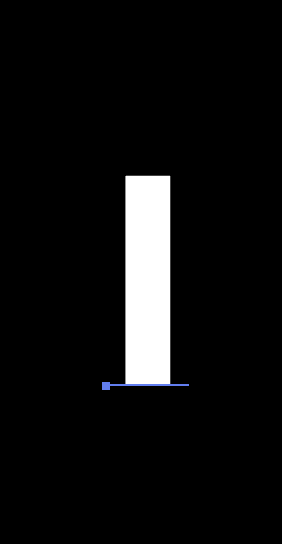
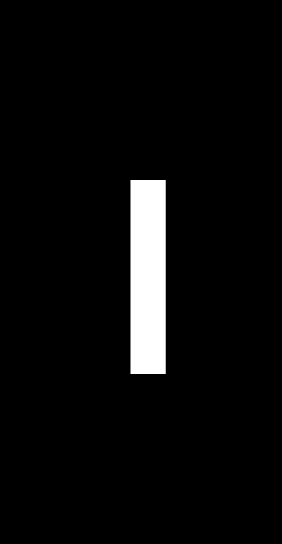
finally it works

Changed region(s): [[0.3404, 0.3125, 0.6525, 0.7188]]

diff --git a/Stereograms.m b/Stereograms.m
@@ -1,89 +1,51 @@
 im = imread("squirrel.jpeg");
 pattern = imread("pattern2.jpeg");
 im2 = imread("face.jpeg");
-letterPics = {'A.jpeg', 'B.jpeg', 'C.jpeg', 'D.jpeg', 'E.jpeg', 'F.jpeg'...
-    'G.jpeg', 'H.jpeg', 'I.jpeg', 'J.jpeg', 'K.jpeg', 'L.jpeg', 'M.jpeg'...
-    'N.jpeg', 'O.jpeg', 'P.jpeg', 'Q.jpeg', 'R.jpeg', 'S.jpeg', 'T.jpeg'...
-    'U.jpeg', 'V.jpeg', 'X.jpeg', 'Y.jpeg', 'Z.jpeg'};
 
-word = {'J', 'A', 'D', 'E', 'N'};
-s = 5;
-temp = letterPics{1}
-wordPattern = imread("wordPattern.jpeg");
-figure(1); imshow(wordPattern);
-wordDepthMap = makeWordDepthMap(letterPics,word,s);
-figure(2); imshow(wordDepthMap);
+word = {'B', 'R', 'U', 'H'};
+s=4;
+%-------------------------------------
+wordPattern = im2double(imread("wordPattern.jpeg"));
+wordDepthMap = makeWordDepthMap(word,s);
+%figure(2); imshow(wordDepthMap);
 wordFullPattern = patternCast(wordDepthMap,wordPattern);
-wordGram = stereogram(wordDepthMap,wordFullPattern,10);
-animate(wordFullPattern,wordGram,"wordGif.gif");
+wordGram = stereogram(wordDepthMap,wordFullPattern,15,2);
+figure(1); imshow(wordGram);
+animate(imgaussfilt(wordFullPattern,2),wordGram,"wordGif.gif");
 
 
-%figure; imshow(im2);
-%newPattern = compress(im, im2, 10);
+%--------------------------------------
+newPattern = compress(im, im2, 10);
 
 %figure(1); imshow(newPattern)
-%fullPattern = patternCast(im, newPattern);
+fullPattern = patternCast(im, newPattern);
 
 %figure(1); imshow(fullPattern)
-%gram = stereogram(im,fullPattern,15);
+gram = stereogram(im,fullPattern,15,5);
 
-%figure(2); imshow(gram)
-%animate(fullPattern,gram);
+figure(2); imshow(gram)
+animate(imgaussfilt(fullPattern,5),gram,"picturePattern.gif");
 
-
-
-
-
-function depthMap = makeWordDepthMap(letterPics, word,s) 
+function depthMap = makeWordDepthMap(word,s) 
     alphabet = {'A', 'B', 'C', 'D', 'E', 'F', 'G', 'H', 'I', 'J', 'K', 'L', 'M', 'N', 'O', 'P', 'Q', 'R', 'S', 'T', 'U', 'V', 'W', 'X', 'Y', 'Z'};
     indexArray = contains(alphabet,word{1});
-    letterFilename = letterPics(indexArray)
-    name = letterFilename{1}
-    depthMap = imread(name);
-    for i = 1:s-1
-        letter = word{i};
-        indexArray2 = contains(alphabet,letter);
-        letterIm = imread(letterPics(indexArray2));
+    ind = find(indexArray==1); %#ok<NASGU> 
+    letterFilename = [word{1} '.jpeg'];
+    %disp(class(letterFilename));
+    depthMap = imread(letterFilename);
+    for i = 2:s
+        letterFilename = [word{i} '.jpeg'];
+        letterIm = imread(letterFilename);
         %depthMap = imfuse(depthMap,letterIm,'montage');
+        %disp(size(letterIm))
+        %disp(size(depthMap))
         depthMap = cat(2,depthMap,letterIm);
 
     end
   
 end
 
-function index = findIndex(A,letter)
-    index = 1;
-    for i=1:size(A)
-        if A(i) == letter
-            index = i;
-        end
-    end
-end
-
-function largeLetter = enlarge(letter, mult)
-    largeLetter = zeros(mult*size(letter,1), mult*size(letter,2));
-    for i = 1:size(letter,1)
-        for j = 1:size(letter,2)
-            largeLetter((i-1)*mult+1:i*mult,(j-1)*mult+1:j*mult) = letter(i,j);
-        end
-    end
-    largeLetter = imfilter(largeLetter,fspecial('gaussian',10,10));
-end
-%function depthMap = outline(im)
-function depthMap = edgeDetect(im)
-    grayIm = im2gray(im);
-    blurred = imfilter(grayIm,fspecial('gaussian',20,10));
-    gradY = double(imfilter(blurred,fspecial('sobel')));
-    gradX = double(imfilter(blurred,fspecial('sobel').'));
-
-    magnitude = sqrt(gradY.^2 + gradX.^2);
-    threshold = prctile(magnitude,90,"all");
-
-    edges = double(magnitude > threshold);
-    depthMap = edges;
-    
-end
-%function pattern = stretch(depthMap, pattern)
+%function pattern = compress(depthMap, pattern)
 function pattern = compress(depthMap, im, numRepeats)
     width = size(depthMap,2);
     im_height = size(im,1);
@@ -111,13 +73,13 @@ function fullPattern = patternCast(depthMap, pattern)
             fullPattern(i,j,:) = pattern(iMod, jMod,:);
         end
     end
-    fullPattern = imgaussfilt(fullPattern,5);
+    %fullPattern = imgaussfilt(fullPattern,2);
 
     %Might need to uncomment this in some cases for bad pictures
     %fullPattern = uint8(fullPattern);
 end
 %function autoGram = stereogram(depthMap, fullPattern)
-function autoGram = stereogram(depthMap, fullPattern, shiftMult)
+function autoGram = stereogram(depthMap, fullPattern, shiftMult,blurAmount)
     depthNorm = double(im2gray(depthMap));
     depthNorm = depthNorm ./ max(depthNorm(:));
     height = size(depthMap,1);
@@ -129,7 +91,7 @@ function autoGram = stereogram(depthMap, fullPattern, shiftMult)
             autoGram(i,j,:) = fullPattern(i,jShift,:);
         end
      end
-    autoGram = imgaussfilt(autoGram,2);
+    autoGram = imgaussfilt(autoGram,blurAmount);
 end
 %function animated = animate(fullPattern, autoGram)
 function animate(fullPattern,autoGram,filename)
